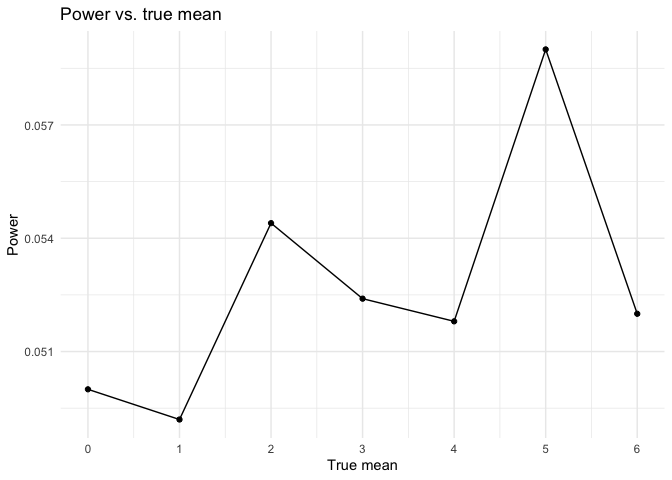
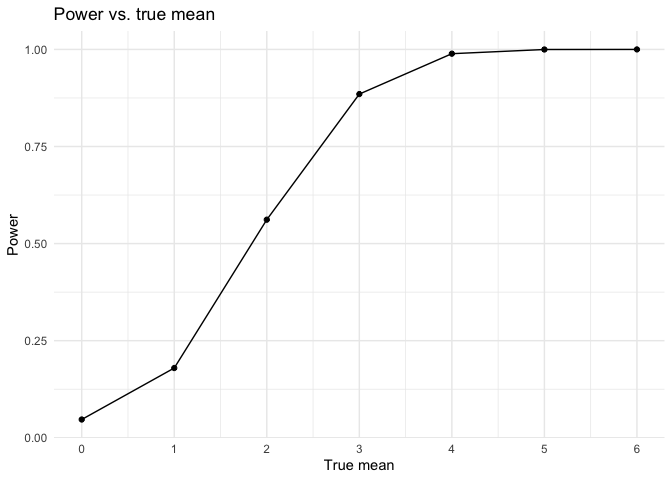
change t test in problem 3 and add comment

diff --git a/p8105_hw5_qh2284.md b/p8105_hw5_qh2284.md
@@ -344,8 +344,8 @@ all_data =
     ## ℹ Please use `cols = c(data)`.
 
 **Tidy the result; manipulate file names to include control arm and
-subject ID, make sure weekly observations are "tidy", and do any other
-tidying that's necessary**
+subject ID, make sure weekly observations are “tidy”, and do any other
+tidying that’s necessary**
 
 ``` r
 # tidy the data
@@ -449,16 +449,16 @@ mean_0
     ## # A tibble: 5,000 × 4
     ##     mean iteration estimate p_value
     ##    <dbl>     <int>    <dbl>   <dbl>
-    ##  1     0         1  -0.0292  0.977 
-    ##  2     0         2  -1.23    0.121 
-    ##  3     0         3   0.237   0.776 
-    ##  4     0         4  -1.50    0.0545
-    ##  5     0         5  -0.926   0.266 
-    ##  6     0         6   2.08    0.0467
-    ##  7     0         7  -0.119   0.885 
-    ##  8     0         8   0.788   0.354 
-    ##  9     0         9  -0.190   0.833 
-    ## 10     0        10  -0.434   0.565 
+    ##  1     0         1   1.32    0.195 
+    ##  2     0         2   1.86    0.0874
+    ##  3     0         3   1.26    0.196 
+    ##  4     0         4  -0.469   0.622 
+    ##  5     0         5  -2.06    0.0226
+    ##  6     0         6   0.605   0.483 
+    ##  7     0         7  -1.21    0.248 
+    ##  8     0         8   1.75    0.0490
+    ##  9     0         9  -1.39    0.106 
+    ## 10     0        10  -0.0423  0.962 
     ## # ℹ 4,990 more rows
 
 **Repeat the above for** $\mu = \{1,2,3,4,5,6\}$**, and complete the
@@ -468,7 +468,7 @@ following:**
 # create a new function
 t_test_new = function(mu) {
   sample = tibble(rnorm(n = 30, mean = mu, sd = 5))
-  result = t.test(sample, alternative = "two.sided", conf.level = 0.95, mu = mu) %>% 
+  result = t.test(sample, alternative = "two.sided", conf.level = 0.95) %>% 
     broom::tidy() %>% 
     dplyr::select(estimate, p_value = p.value)
   return(result)
@@ -504,7 +504,10 @@ power_plot
 
 ![](p8105_hw5_qh2284_files/figure-gfm/unnamed-chunk-13-1.png)<!-- -->
 
-Comment:
+Comment: From above we could observe that as true mean increases, the
+power also increases. In other words, the power increases as the effect
+size increases, and ultimately approaches 1. And we could observe that
+the slope of the curve is decreasing along the true mean.
 
 **Make a plot showing the average estimate of** $\hat{\mu}$ **on the y
 axis and the true value of** μ **on the x axis.**
@@ -527,6 +530,10 @@ compare_plot
 ```
 
 ![](p8105_hw5_qh2284_files/figure-gfm/unnamed-chunk-14-1.png)<!-- -->
+
+Comment: From above, we could observe that the average estimate mean is
+quite close to true mean. The relationship between average estimate mean
+and true mean is approximately y = x.
 
 **Make a second plot (or overlay on the first) the average estimate of**
 $\hat{\mu}$ **only in samples for which the null was rejected on the y
@@ -555,4 +562,8 @@ ggplot() +
 
 ![](p8105_hw5_qh2284_files/figure-gfm/unnamed-chunk-15-1.png)<!-- -->
 
-Comment:
+Comment: We could observe that when the true mean is between 1 and 4,
+the average estimate means of whose null are rejected are different from
+true mean (always larger). This might be because of the small power at
+small effect size. When true mean is greater than 4, the average
+estimate means of whose null are rejected are similar to the true mean.
